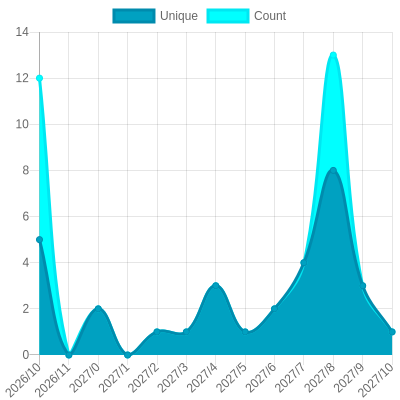
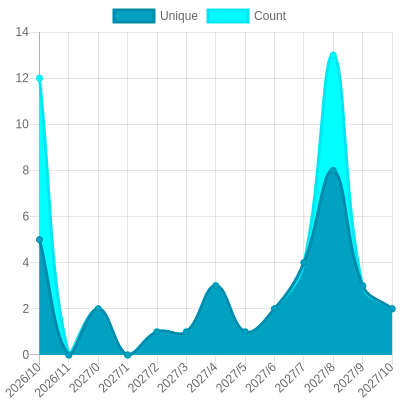
Update views

diff --git a/README.md b/README.md
@@ -26,13 +26,13 @@ The project created and maintained by [gayanvoice](https://github.com/gayanvoice
 			</a>
 		</td>
 		<td>
-			2026/11/9 3:15 AM UTC
+			2026/11/10 12:00 AM UTC
 		</td>
 		<td>
-			81
+			82
 		</td>
 		<td>
-			<img alt="Response time graph" src="https://github.com/fabiohcnobre/my-views-counter/raw/master/graph/522970116/small/year.png" height="20"> 570
+			<img alt="Response time graph" src="https://github.com/fabiohcnobre/my-views-counter/raw/master/graph/522970116/small/year.png" height="20"> 571
 		</td>
 	</tr>
 	<tr>
@@ -42,7 +42,7 @@ The project created and maintained by [gayanvoice](https://github.com/gayanvoice
 			</a>
 		</td>
 		<td>
-			2026/11/9 3:15 AM UTC
+			2026/11/10 3:12 AM UTC
 		</td>
 		<td>
 			42
@@ -53,7 +53,7 @@ The project created and maintained by [gayanvoice](https://github.com/gayanvoice
 	</tr>
 </table>
 
-<small><i>Last updated on 2026/11/11 3:13 AM UTC</i></small>
+<small><i>Last updated on 2026/11/12 3:13 AM UTC</i></small>
 
 ## ✂Copy and 📋 Paste
 ### Total Views Badge

diff --git a/readme/522970116/year.md b/readme/522970116/year.md
@@ -23,10 +23,10 @@
 			<code>2026/11/1</code>
 		</td>
 		<td>
-			<code>1</code>
+			<code>2</code>
 		</td>
 		<td>
-			<code>1</code>
+			<code>2</code>
 		</td>
 	</tr>
 	<tr>
@@ -164,7 +164,7 @@
 </table>
 
 </details>
-<small><i>Last updated on 2026/11/11 3:13 AM UTC</i></small>
+<small><i>Last updated on 2026/11/12 3:13 AM UTC</i></small>
 
 ## ✂Copy and 📋 Paste
 ### SVG Badge

diff --git a/readme/529720704/year.md b/readme/529720704/year.md
@@ -164,7 +164,7 @@
 </table>
 
 </details>
-<small><i>Last updated on 2026/11/11 3:13 AM UTC</i></small>
+<small><i>Last updated on 2026/11/12 3:13 AM UTC</i></small>
 
 ## ✂Copy and 📋 Paste
 ### SVG Badge
